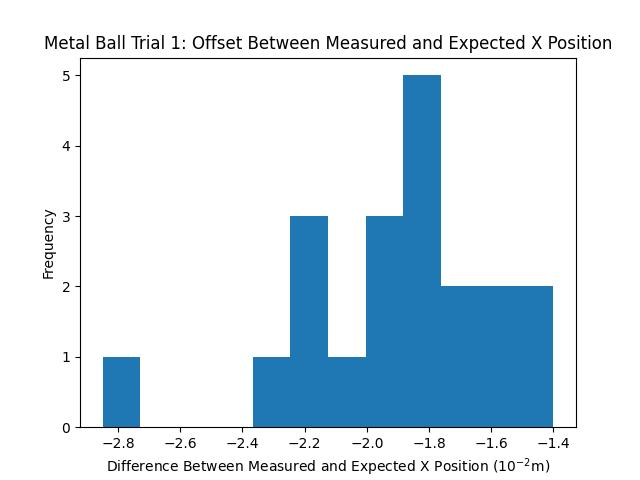
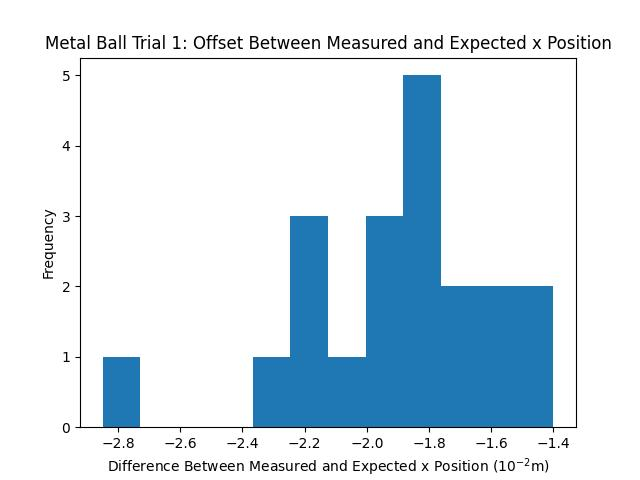
finished

Changed region(s): [[0.0625, 0.0625, 0.9688, 0.125], [0.1562, 0.9375, 0.6562, 1.0], [0.6875, 0.9688, 0.7188, 1.0]]

diff --git a/proj_motion.py b/proj_motion.py
@@ -29,19 +29,19 @@ for file in files:
     plt.hist(x, bins = 12)
     #bins=np.arange(min(x), max(x) + w, w))  # density=False would make counts
     plt.ylabel("Frequency")
-    plt.xlabel("Difference Between Measured and Expected X Position ($\mathregular{10^{-2}}$m)")
+    plt.xlabel("Difference Between Measured and Expected x Position ($\mathregular{10^{-2}}$m)")
     split = file.split(".", 1)
-    plt.title(hist_names[count] + ": Offset Between Measured and Expected X Position")
+    plt.title(hist_names[count] + ": Offset Between Measured and Expected x Position")
     plt.savefig(split[0] +"_x.jpg")
     plt.show()
     
     plt.hist(z, bins = 12)
     #bins=np.arange(min(x), max(x) + w, w))  # density=False would make counts
     plt.ylabel("Frequency")
-    plt.xlabel("Difference Between Measured and Expected Z Position ($\mathregular{10^{-2}}$m)")
+    plt.xlabel("Difference Between Measured and Expected z Position ($\mathregular{10^{-2}}$m)")
     split = file.split(".", 1)
-    plt.title(hist_names[count] + ": Offset Between Measured and Expected Z Position")
-    plt.savefig(split[0] +"_z.jpg")
+    plt.title(hist_names[count] + ": Offset Between Measured and Expected z Position")
+    #plt.savefig(split[0] +"_z.jpg")
     plt.show()
     count += 1
     
